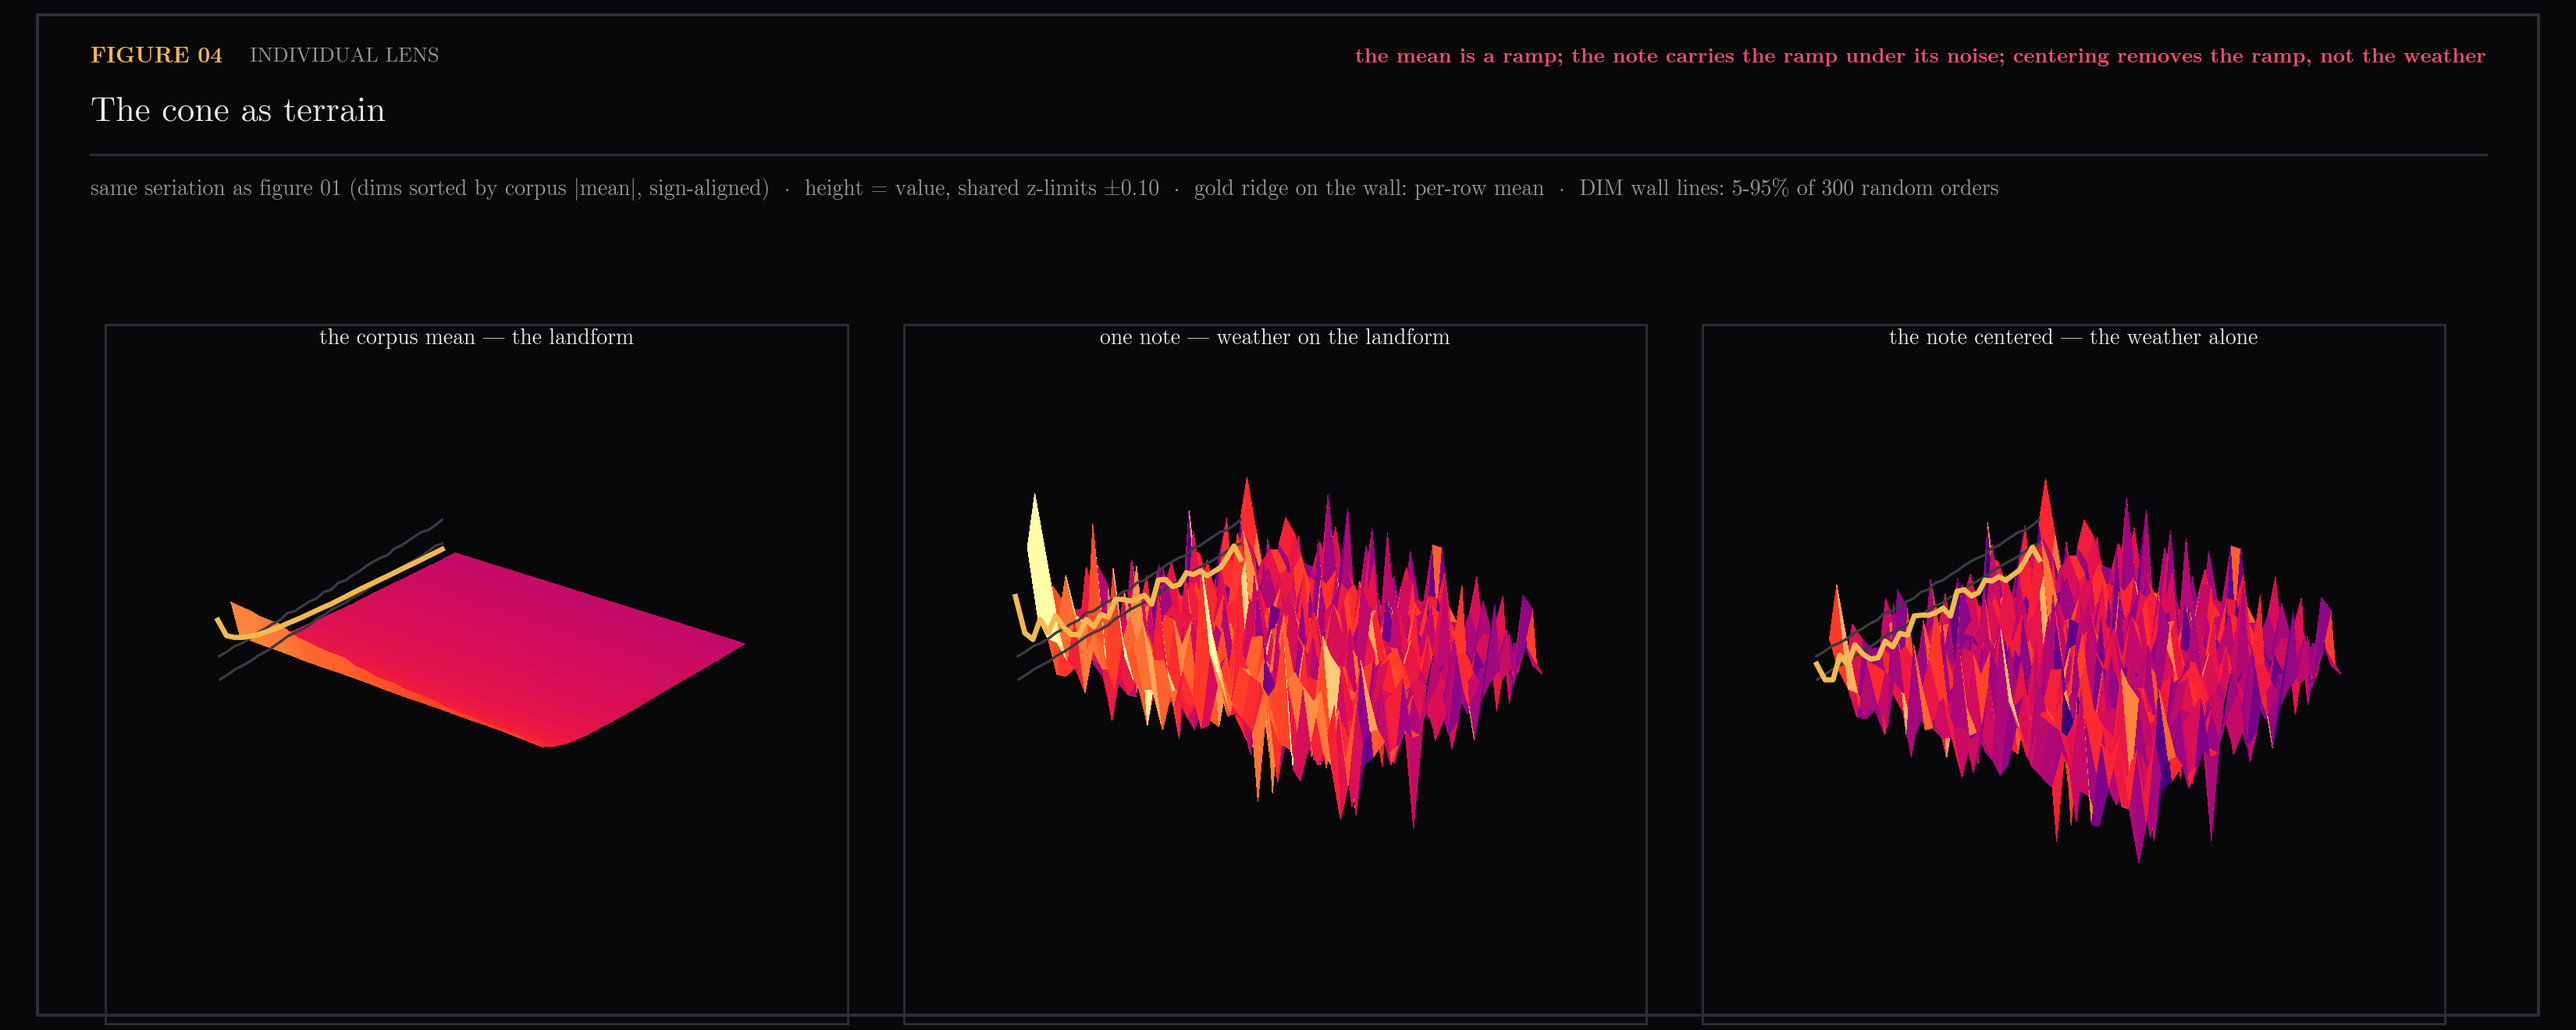
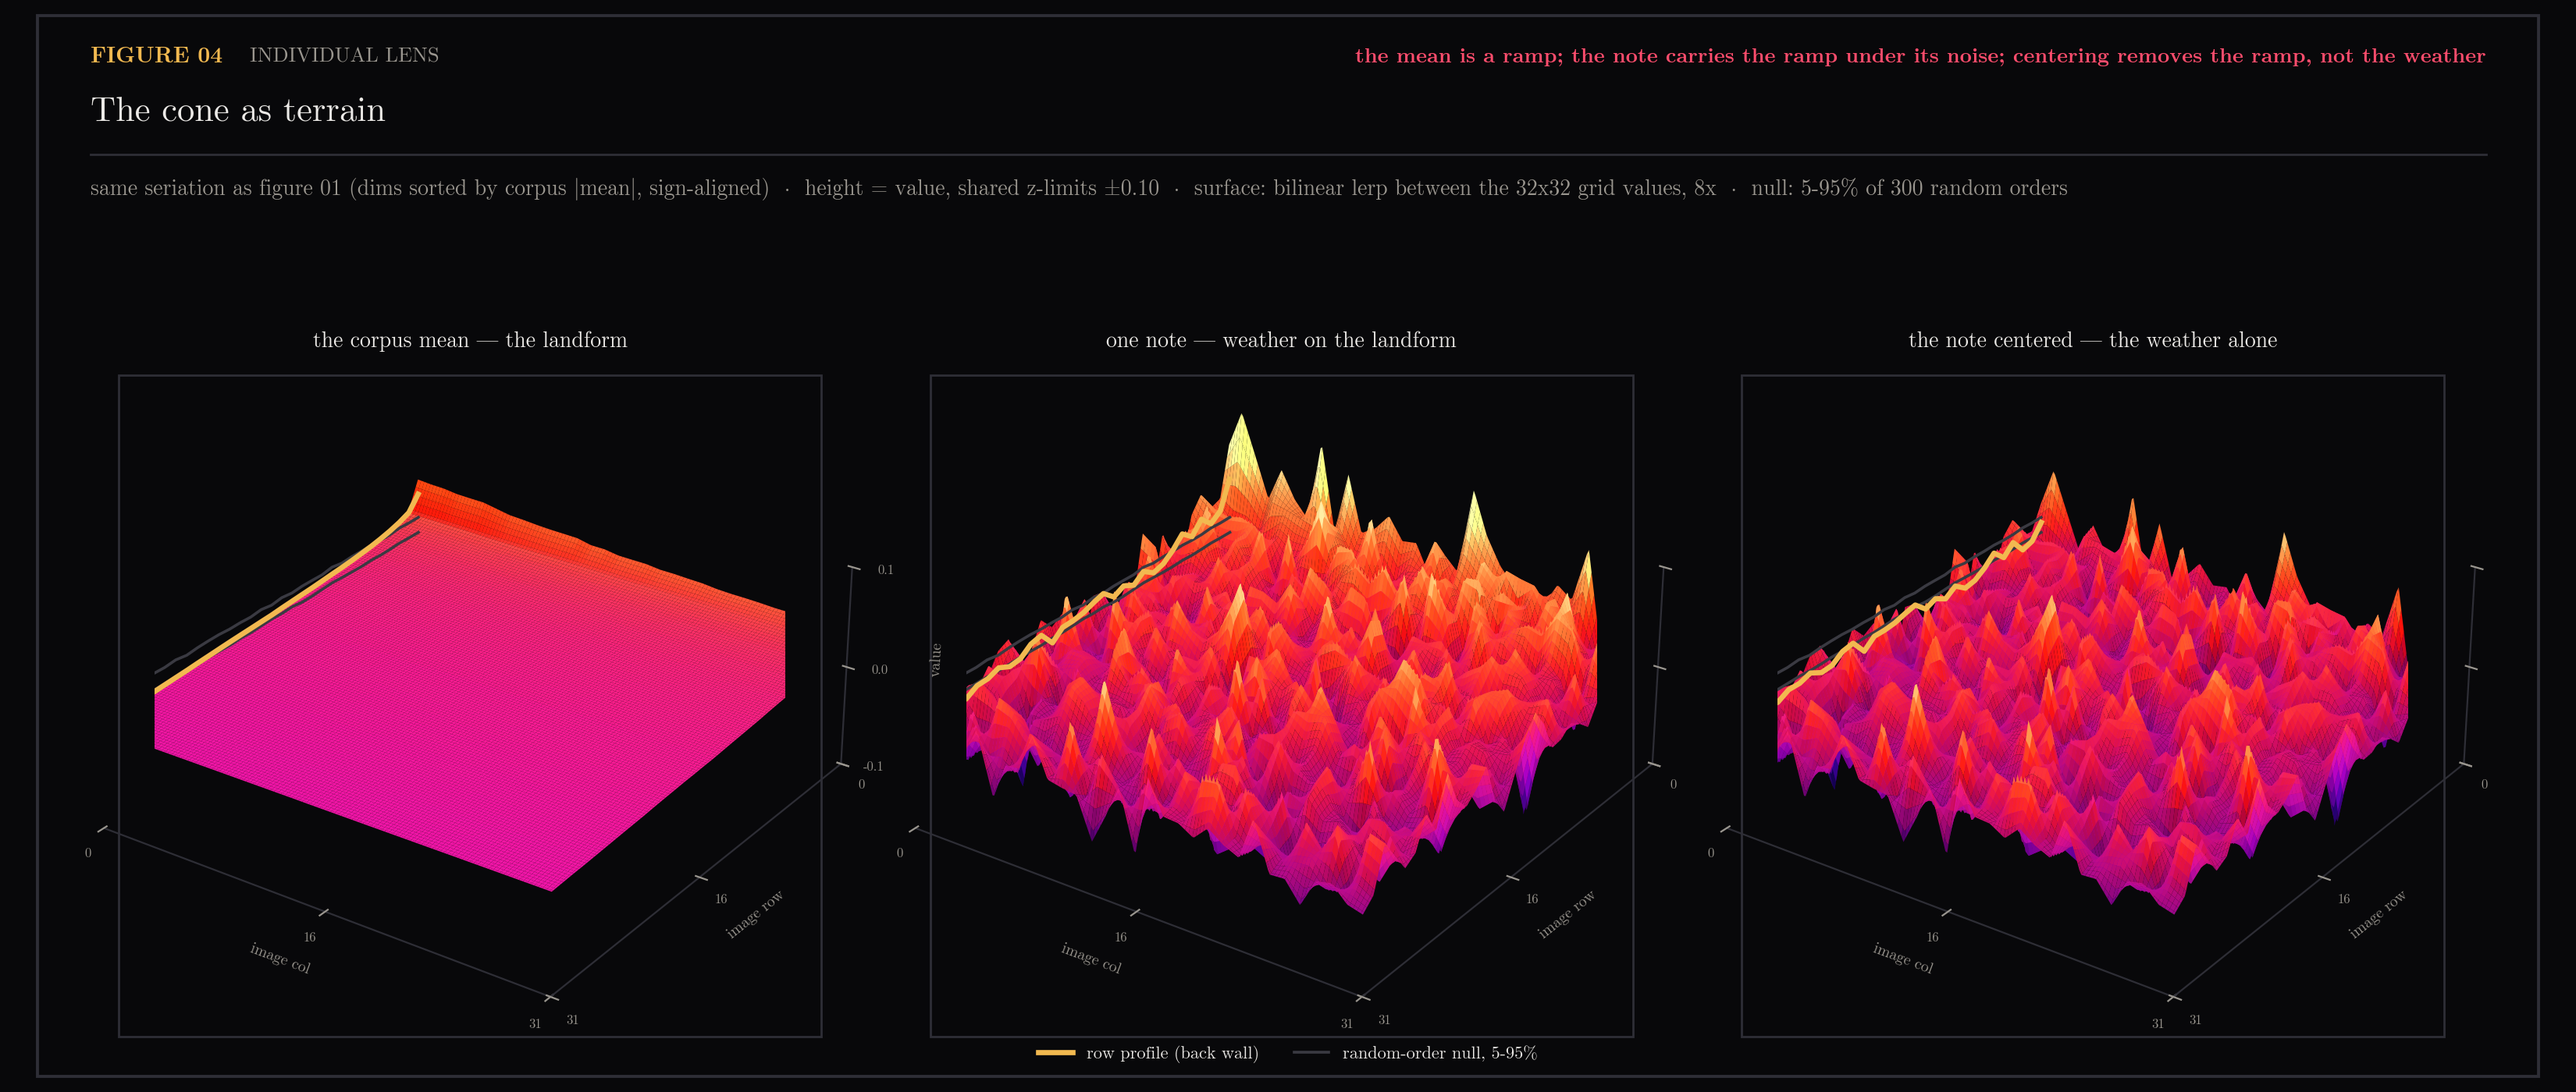
fix(34): figure 04 rebuilt — lerped hillshaded terrain, axes, legend, aligned frames
The first cut shipped raw 32x32 quads (sharp shards), no axes, no legend,
and 3D axes boxes that did not fill their frames. Rebuilt: the field is
bilinearly interpolated 8x between grid values (nodes exact, surface
lerps — stated in the meta line), lit with a 315/45 soft hillshade;
labeled col/row/value axes with muted furniture; a figure legend for the
gold row-profile ridge and the DIM random-order rails; box aspect and
zoom chosen so the surfaces fill their frame cells; row 0 flipped toward
the camera so the ramp's high edge and the note's brightest peaks face
the viewer instead of hiding at the back. README paragraph updated to
match (lerp disclosure, back wall).

diff --git a/scripts/plot_individual_lens.py b/scripts/plot_individual_lens.py
@@ -425,9 +425,15 @@ def fig03(X, tags, names, cmap):
 
 def fig04(X, note, cmap):
     """The same field as terrain: a 32x32 vector image is a scalar field, so
-    height can carry the value instead of brightness. The cone becomes a
-    landform; the gold ridge on the side wall is the row profile (fig 01's
-    readout, now a silhouette); DIM wall lines are the random-order null."""
+    height can carry the value instead of brightness. The field is bilinearly
+    interpolated between grid points for rendering (values at the 32x32 nodes
+    are exact; the surface lerps between them), lit with a soft hillshade.
+    The gold ridge on the back wall is the row profile (fig 01's readout, now
+    a silhouette); the DIM rails are the random-order null."""
+    from matplotlib.colors import LightSource
+    from matplotlib.lines import Line2D
+    from scipy.ndimage import zoom
+
     mean = X.mean(0)
     _, _, view = seriate(mean)
     q = unit(note["qwen"].astype(np.float32))
@@ -437,41 +443,79 @@ def fig04(X, note, cmap):
 
     meta = (
         "same seriation as figure 01 (dims sorted by corpus |mean|, sign-aligned)  ·  height = value, shared z-limits ±0.10  ·  "
-        "gold ridge on the wall: per-row mean  ·  DIM wall lines: 5-95% of 300 random orders"
+        "surface: bilinear lerp between the 32x32 grid values, 8x  ·  null: 5-95% of 300 random orders"
     )
-    fig, top = figure(16.5, 6.6, 4, "individual lens", "The cone as terrain", meta)
+    fig, top = figure(16.5, 7.0, 4, "individual lens", "The cone as terrain", meta)
 
-    r = np.arange(SIDE)
-    xx, yy = np.meshgrid(r, r)
+    UP = 8
     zlim = 0.10
     norm = plt.Normalize(-zlim, zlim)
+    ls = LightSource(azdeg=315, altdeg=45)
+    r = np.arange(SIDE)
+    rf = np.linspace(0, SIDE - 1, SIDE * UP)
+    xxf, yyf = np.meshgrid(rf, rf)
     panels = [
         ("the corpus mean — the landform", view(mean)),
         ("one note — weather on the landform", view(q)),
         ("the note centered — the weather alone", view(qc)),
     ]
     for k, (title, Z) in enumerate(panels):
-        ax = fig.add_axes([MARGIN + k * 0.31, 0.02, 0.30, top - 0.06], projection="3d")
+        Zf = zoom(Z, UP, order=1)  # lerp between grid points; node values exact
+        rgb = ls.shade(Zf, cmap=cmap, norm=norm, vert_exag=40, blend_mode="soft")
+        ax = fig.add_axes([MARGIN + k * 0.315, 0.065, 0.295, top - 0.15], projection="3d")
         ax.set_facecolor(BG)
         ax.plot_surface(
-            xx,
-            yy,
-            Z,
-            facecolors=cmap(norm(Z)),
-            rstride=1,
-            cstride=1,
+            xxf,
+            yyf,
+            Zf,
+            facecolors=rgb,
+            rcount=SIDE * UP // 2,
+            ccount=SIDE * UP // 2,
             linewidth=0,
-            antialiased=False,
+            antialiased=True,
             shade=False,
         )
-        wall = np.zeros(SIDE) - 1.5
+        # row profile + null rails on the back wall (x = 0 plane)
+        wall = np.zeros(SIDE)
         ax.plot(wall, r, Z.mean(axis=1), color=GOLD, lw=2.4, zorder=10)
-        ax.plot(wall, r, lo, color=DIM, lw=1.2, zorder=9)
-        ax.plot(wall, r, hi, color=DIM, lw=1.2, zorder=9)
+        ax.plot(wall, r, lo, color=DIM, lw=1.3, zorder=9)
+        ax.plot(wall, r, hi, color=DIM, lw=1.3, zorder=9)
+
         ax.set_zlim(-zlim, zlim)
+        ax.set_xlim(0, SIDE - 1)
+        ax.set_ylim(SIDE - 1, 0)  # row 0 toward the camera — the ridge faces the viewer
         ax.view_init(elev=28, azim=-55)
-        ax.set_axis_off()
-        fig.text(MARGIN + k * 0.31 + 0.15, top - 0.045, title, color=TEXT, fontsize=10, ha="center")
+        ax.set_box_aspect((1, 1, 0.42), zoom=1.22)
+        for pane in (ax.xaxis, ax.yaxis, ax.zaxis):
+            pane.set_pane_color((0, 0, 0, 0))
+            pane.line.set_color(FRAME)
+        ax.grid(False)
+        ax.tick_params(colors=MUTED, labelsize=6, pad=-1)
+        ax.set_xticks([0, 16, 31])
+        ax.set_yticks([0, 16, 31])
+        ax.set_zticks([-0.1, 0, 0.1])
+        ax.set_xlabel("image col", color=MUTED, fontsize=7, labelpad=-4)
+        ax.set_ylabel("image row", color=MUTED, fontsize=7, labelpad=-4)
+        if k == 0:
+            ax.set_zlabel("value", color=MUTED, fontsize=7, labelpad=-2)
+        else:
+            ax.set_zticklabels([])
+        fig.text(
+            MARGIN + k * 0.315 + 0.1475, top - 0.045, title, color=TEXT, fontsize=10, ha="center"
+        )
+
+    fig.legend(
+        handles=[
+            Line2D([], [], color=GOLD, lw=2.4, label="row profile (back wall)"),
+            Line2D([], [], color=DIM, lw=1.3, label="random-order null, 5-95%"),
+        ],
+        loc="lower center",
+        bbox_to_anchor=(0.5, 0.012),
+        ncol=2,
+        frameon=False,
+        labelcolor=TEXT,
+        fontsize=8,
+    )
 
     verdict(
         fig,

diff --git a/docs/assets/34-individual-lens/README.md b/docs/assets/34-individual-lens/README.md
@@ -73,14 +73,16 @@ fade.**
 **04 — The cone as terrain** (the same field, one more lens). A vector image
 is a scalar field on a 32×32 grid, and a scalar field doesn't have to spend
 brightness on the value — it can spend height. So let's stand the seriated
-views of figure 01 up as surfaces. The corpus mean becomes a landform: a
+views of figure 01 up as surfaces: bilinearly interpolated between the grid
+values (the 32×32 nodes are exact, the surface lerps between them),
+hillshaded, row 0 facing the camera. The corpus mean becomes a landform: a
 smooth ramp falling away from its 32 loudest dims. One note is weather on
-that landform — noise spikes riding a tilted floor — and the gold ridge on
-the side wall (figure 01's row profile, now a literal silhouette) starts
-above the DIM null rails and decays into them. Center the note and the ramp
-is gone: the silhouette never leaves the rails, but the weather is untouched.
-Same claim as figure 01, now visible as geography rather than read off a
-chart.
+that landform — noise riding a tilted floor, brightest peaks along the row-0
+edge — and the gold ridge on the back wall (figure 01's row profile, now a
+literal silhouette) starts above the DIM null rails and decays into them.
+Center the note and the ramp is gone: the silhouette never leaves the rails,
+but the weather is untouched. Same claim as figure 01, now visible as
+geography rather than read off a chart.
 
 ![the cone as terrain](04-cone-terrain.png)
 
